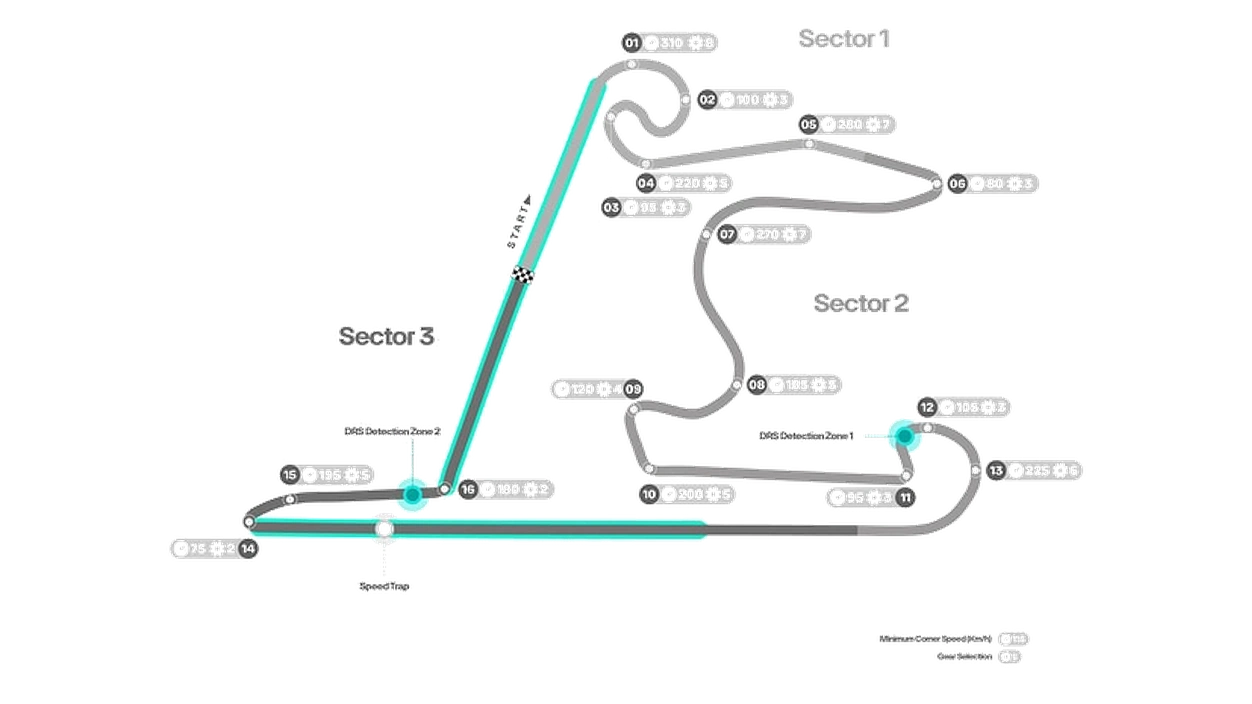
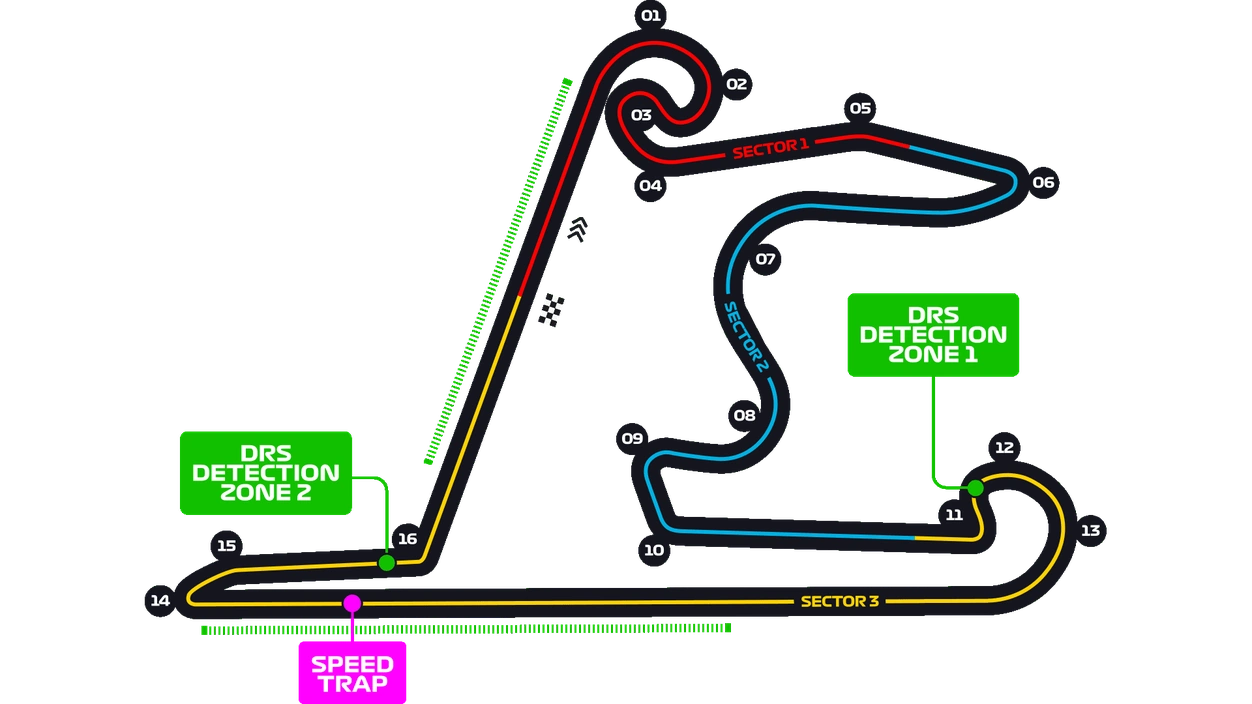
Reuse China map and mute archive calendars

diff --git a/src/app/calendar/page.tsx b/src/app/calendar/page.tsx
@@ -15,6 +15,7 @@ import { getCalendarEvents, getPublishedSeasons } from "@/data/racemate-reposito
 import {
   CURRENT_F1_SEASON,
   resolvePublishedSeason,
+  shouldMuteCalendarRaceMap,
   type SeasonSearchParams,
 } from "@/lib/season-navigation";
 import { withServerTtlCache } from "@/lib/server-ttl-cache";
@@ -132,6 +133,7 @@ function CalendarRaceCard({ event }: { event: CalendarEvent }) {
   const assetSrc = event.trackMapUrl ?? legacyAsset?.src ?? null;
   const isCurrent = event.status === "Текущий этап" && isCurrentSeason;
   const isCompleted = event.status === "Завершен";
+  const isMapMuted = shouldMuteCalendarRaceMap(event.season, event.status);
 
   return (
     <Link
@@ -148,7 +150,7 @@ function CalendarRaceCard({ event }: { event: CalendarEvent }) {
             alt={`Схема трассы ${event.circuit}`}
             className={cn(
               "object-contain p-4 transition-all duration-500 group-hover:scale-105",
-              !isCurrent && isCurrentSeason && "grayscale group-hover:grayscale-0",
+              isMapMuted && "grayscale group-hover:grayscale-0",
             )}
             fill
             sizes="(max-width: 640px) 100vw, (max-width: 1280px) 50vw, 20rem"

diff --git a/src/lib/season-navigation.ts b/src/lib/season-navigation.ts
@@ -24,6 +24,10 @@ export function resolvePublishedSeason(
   return publishedSeasons.includes(season) ? season : null;
 }
 
+export function shouldMuteCalendarRaceMap(season: number, status: string) {
+  return season !== CURRENT_F1_SEASON || status !== "Текущий этап";
+}
+
 export function buildSeasonHref(
   pathname: string,
   season: number,

diff --git a/public/f1/ATTRIBUTION.md b/public/f1/ATTRIBUTION.md
@@ -10,9 +10,9 @@ season manifest in `public/f1/circuits/{season}/manifest.json` records the race
 page, exact source URL, Wayback timestamp where applicable, source and output
 SHA-256 checksums, dimensions, rights review, and manual visual review.
 
-The 2025 Chinese Grand Prix uses the official Mercedes-AMG PETRONAS F1 Team
-event map because it records the 75 m DRS extension introduced for that race:
-https://media.mercedesamgf1.com/marsF1/en/instance/picture/ENGLISH-2025-Chinese-Grand-Prix---Track-Map.xhtml?oid=193820809
+The 2025 Chinese Grand Prix intentionally reuses the reviewed Formula1.com map
+from the 2024 event. The 2025 season manifest records the shared archived
+source and checksum explicitly.
 
 - Australia: https://media.formula1.com/image/upload/c_fit,h_704/q_auto/v1740000001/common/f1/2026/track/2026trackmelbournedetailed.webp (page: https://www.formula1.com/en/racing/2026/australia)
 - China: https://media.formula1.com/image/upload/c_fit,h_704/q_auto/v1740000001/common/f1/2026/track/2026trackshanghaidetailed.webp (page: https://www.formula1.com/en/racing/2026/china)

diff --git a/DESIGN.md b/DESIGN.md
@@ -109,6 +109,7 @@ Historical season surfaces:
 - `SeasonSwitcher` sits under the surface title or profile metadata. On desktop it is collapsed by default, keeps the active year visible, and reveals the other published years horizontally on demand; it expands right by default and left in the team profile hero. On mobile it becomes a compact native select and never expands the page horizontally. The control uses a 44px interaction height, visible focus, keyboard-native behavior, 150-200ms feedback, and no transition under reduced motion.
 - A profile with one available season shows a quiet static season label instead of a disabled control.
 - Historical pages use the same Apex Performance hierarchy as the current season, but only show sporting information. Current-only news, social posts, odds, weather, AI race reports, and Race Replay do not appear.
+- Historical calendar maps always use the same muted grayscale treatment as completed races in the current season; the active current-season race remains the only full-color state.
 - Cars, logos, and maps must resolve from the selected season and remain part of its publication gate. Never substitute 2026 artwork for a historical asset.
 - Historical driver portraits are optional. When a season-specific portrait is absent, show a composed number or initials placeholder with the team's seasonal color, without loading or review-status copy. Existing 2026 portraits remain unchanged.
 